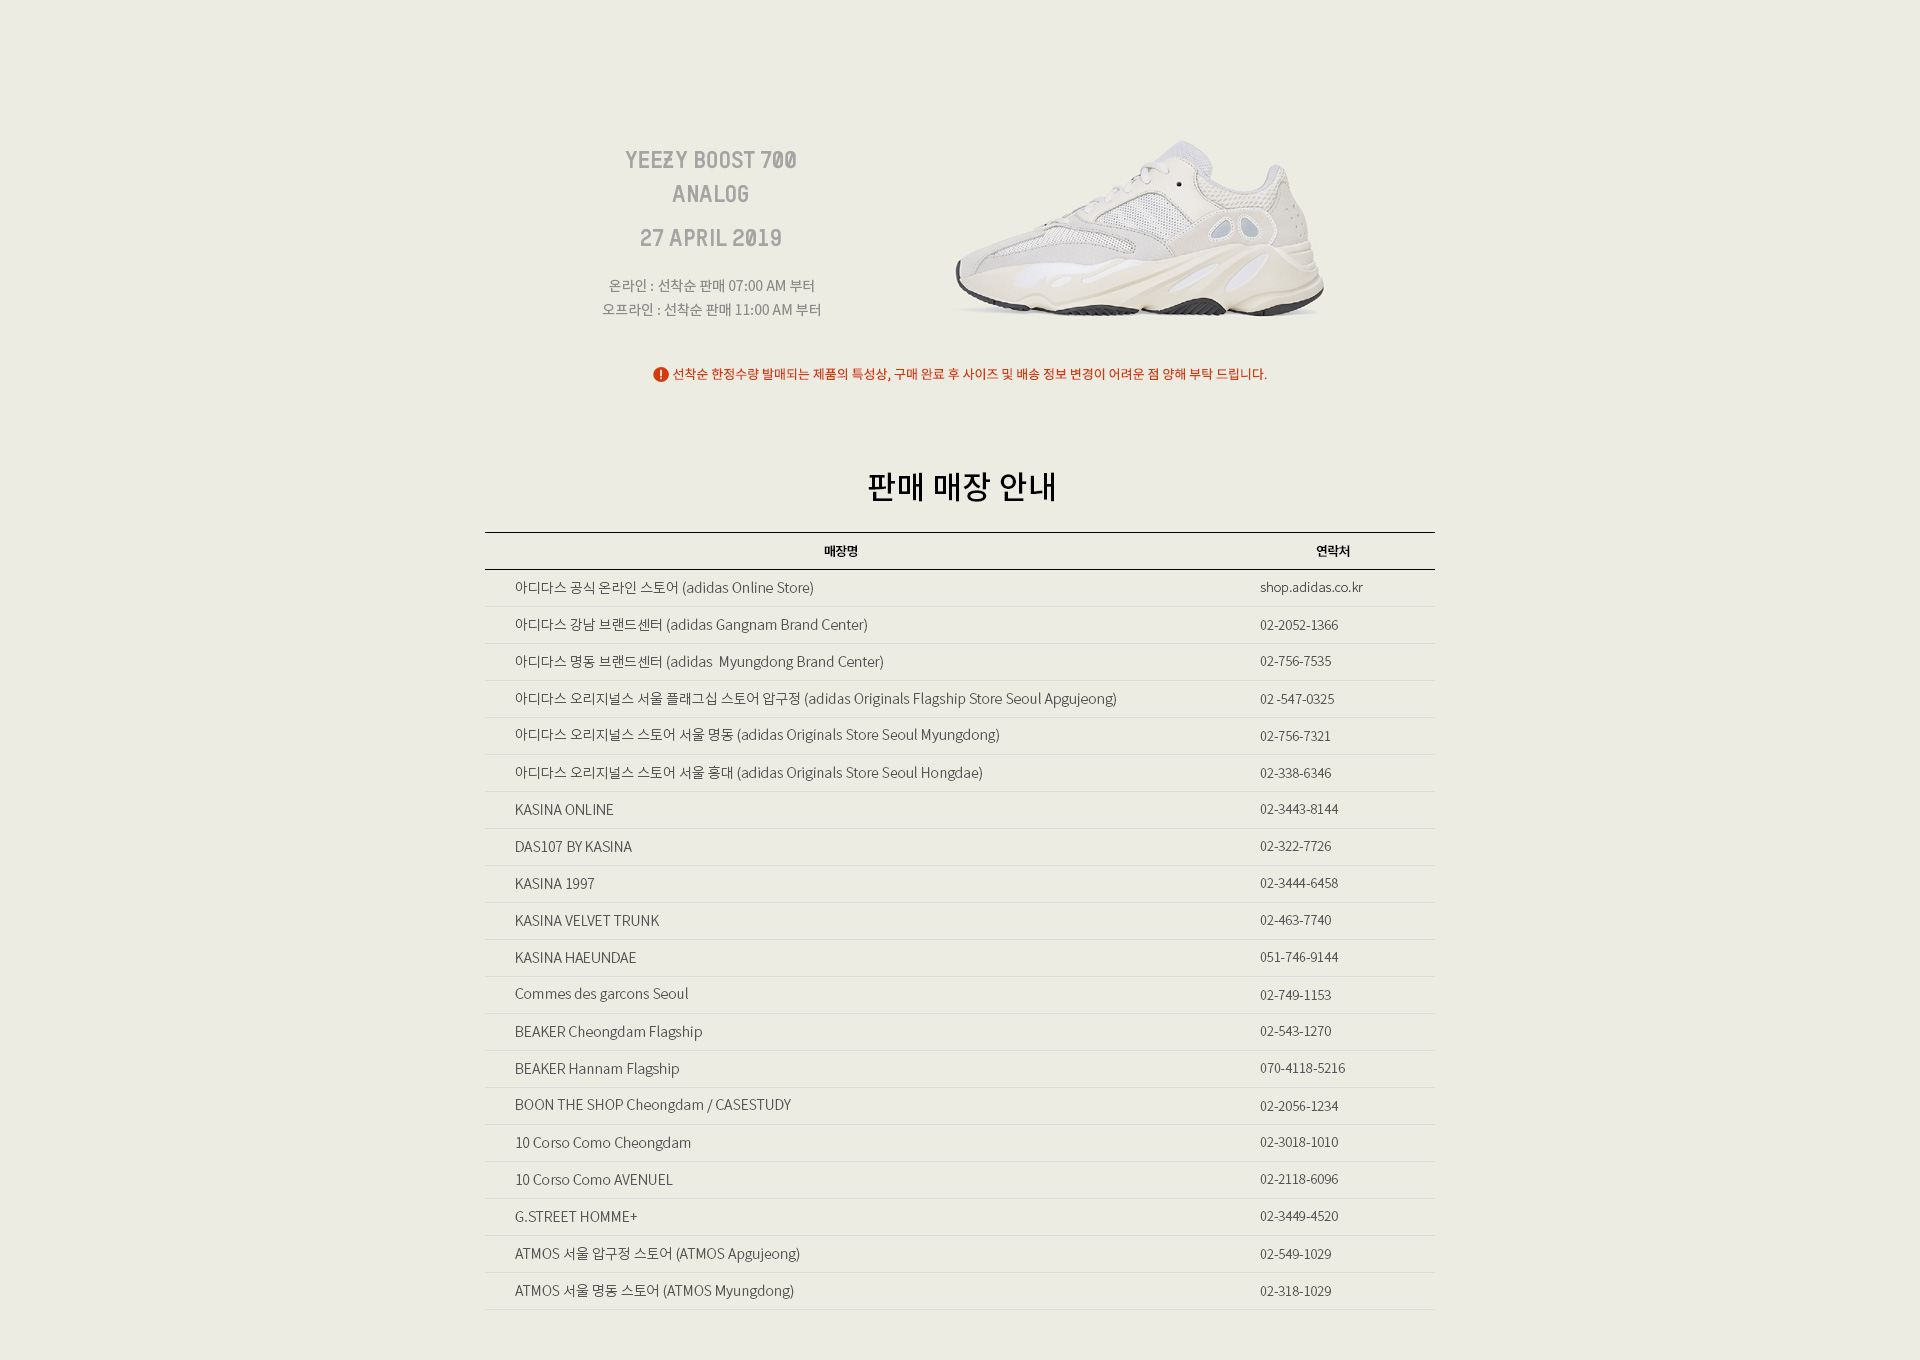
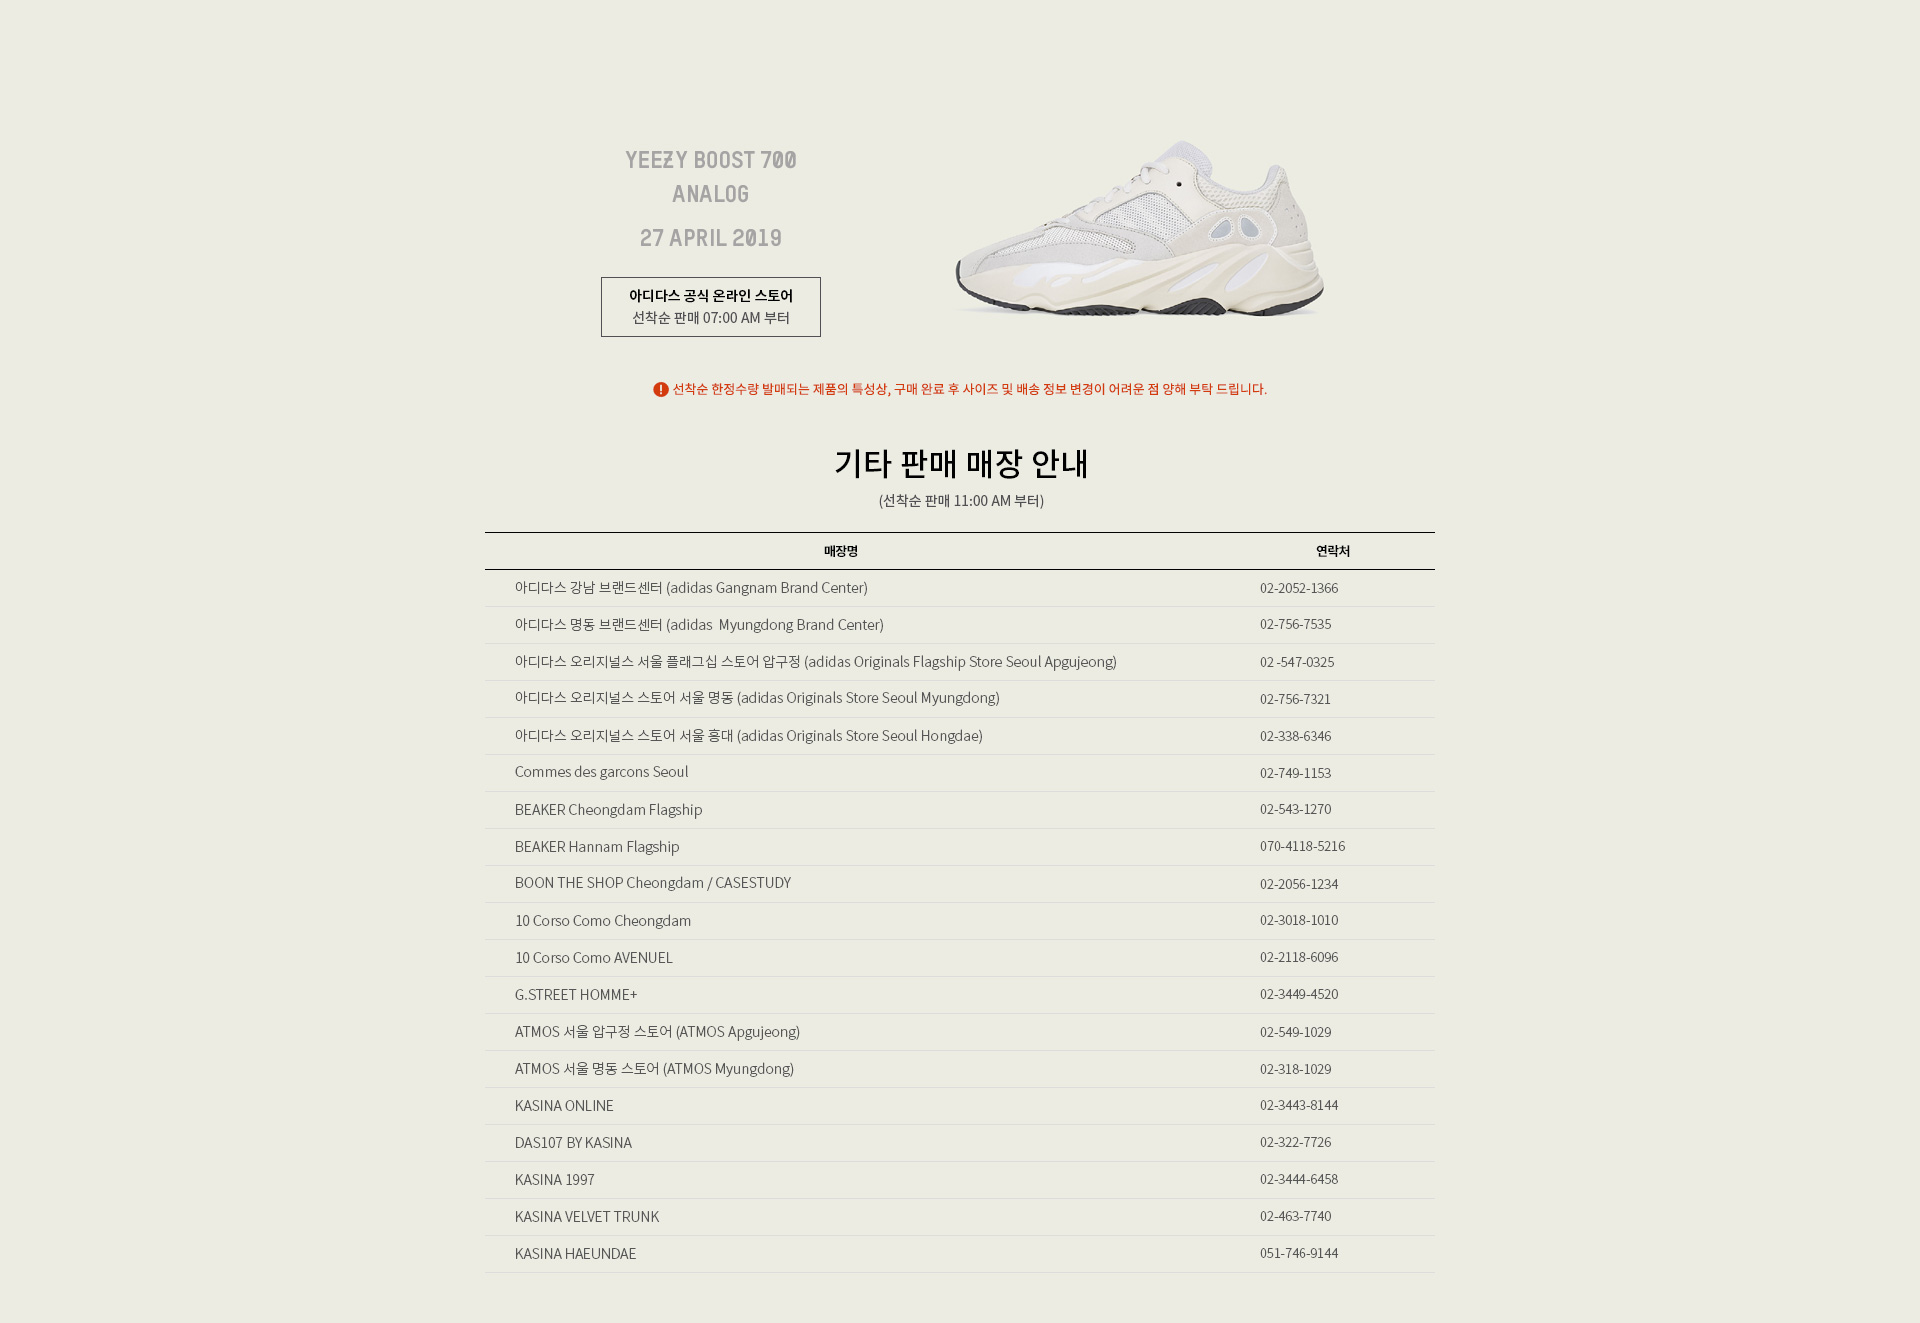
adi_cp_yeezy info 23일자 수정

Changed region(s): [[0.25, 0.3409, 0.5938, 0.9607], [0.3125, 0.093, 0.6875, 0.3099], [0.6562, 0.4029, 0.7188, 0.9607]]

diff --git a/front/html/adidas/2019/event/yeezy_information/build/index.html b/front/html/adidas/2019/event/yeezy_information/build/index.html
@@ -1019,7 +1019,7 @@
 		<!-- header HTML -->
 
 		<div id="container_r" class="campaign-content">
-<style type="text/css">.pseudo-element{content:'';display:block}html.no_scroll{width:100%;height:100%;position:relative;overflow:hidden}#yeezy_no_raffle{width:100%;position:relative;overflow:hidden;background:#fff;min-width:1024px}#yeezy_no_raffle .visual{position:relative;height:1360px}#yeezy_no_raffle .visual .bg{position:absolute;top:0;left:50%;margin-left:-960px}#yeezy_no_raffle .visual .bg img{display:block}#yeezy_no_raffle .top_wrap{display:none;background:#eeeeee;text-align:center;padding-top:70px;position:relative;height:400px}#yeezy_no_raffle .top_wrap h3{font:700 47px 'NotoSansKR';color:#000;text-align:center}#yeezy_no_raffle .top_wrap h3::after{content:'';width:45px;height:1px;background:#000;margin:20px 0;display:block;position:relative;left:50%;margin-left:-20px}#yeezy_no_raffle .top_wrap p.desc1{font:400 18px/26px 'NotoSansKR';color:#000;margin-bottom:30px;text-align:center}#yeezy_no_raffle .top_wrap p.desc1 span{font:18px/26px 'adinenuPro-regular';text-align:center}#yeezy_no_raffle .top_wrap p.desc2{font:500 20px/28px 'NotoSansKR';color:#000;margin-bottom:30px;text-align:center}#yeezy_no_raffle .top_wrap a{width:455px;height:60px;padding-top:10px;position:absolute;bottom:70px;left:50%;margin-left:-225px}#yeezy_no_raffle .top_wrap a span{font:400 18px/50px 'NotoSansKR'}#yeezy_no_raffle .olapic-wrapper{position:relative;left:50%;margin-left:-475px;width:951px;margin-top:60px}#yeezy_no_raffle .olapic-wrapper p.desc{text-align:center;font:400 14px/20px 'NotoSansKR';color:#000;margin-top:15px}#yeezy_no_raffle .banner_wrap{width:951px;position:relative;left:50%;margin-left:-475px;margin-top:70px;margin-bottom:100px;height:380px}#yeezy_no_raffle .banner_wrap>div{transition:box-shadow 0.3s ease-out;-webkit-transition:box-shadow 0.3s ease-out}#yeezy_no_raffle .banner_wrap>div:hover{box-shadow:0 0 20px rgba(0,0,0,0.5)}#yeezy_no_raffle .banner_wrap .banner_left{float:left}#yeezy_no_raffle .banner_wrap .banner_right{float:right}
+<style type="text/css">.pseudo-element{content:'';display:block}html.no_scroll{width:100%;height:100%;position:relative;overflow:hidden}#yeezy_no_raffle{width:100%;position:relative;overflow:hidden;background:#fff;min-width:1024px}#yeezy_no_raffle .visual{position:relative;height:1323px}#yeezy_no_raffle .visual .bg{position:absolute;top:0;left:50%;margin-left:-960px}#yeezy_no_raffle .visual .bg img{display:block}#yeezy_no_raffle .top_wrap{display:none;background:#eeeeee;text-align:center;padding-top:70px;position:relative;height:400px}#yeezy_no_raffle .top_wrap h3{font:700 47px 'NotoSansKR';color:#000;text-align:center}#yeezy_no_raffle .top_wrap h3::after{content:'';width:45px;height:1px;background:#000;margin:20px 0;display:block;position:relative;left:50%;margin-left:-20px}#yeezy_no_raffle .top_wrap p.desc1{font:400 18px/26px 'NotoSansKR';color:#000;margin-bottom:30px;text-align:center}#yeezy_no_raffle .top_wrap p.desc1 span{font:18px/26px 'adinenuPro-regular';text-align:center}#yeezy_no_raffle .top_wrap p.desc2{font:500 20px/28px 'NotoSansKR';color:#000;margin-bottom:30px;text-align:center}#yeezy_no_raffle .top_wrap a{width:455px;height:60px;padding-top:10px;position:absolute;bottom:70px;left:50%;margin-left:-225px}#yeezy_no_raffle .top_wrap a span{font:400 18px/50px 'NotoSansKR'}#yeezy_no_raffle .olapic-wrapper{position:relative;left:50%;margin-left:-475px;width:951px;margin-top:60px}#yeezy_no_raffle .olapic-wrapper p.desc{text-align:center;font:400 14px/20px 'NotoSansKR';color:#000;margin-top:15px}#yeezy_no_raffle .banner_wrap{width:951px;position:relative;left:50%;margin-left:-475px;margin-top:70px;margin-bottom:100px;height:380px}#yeezy_no_raffle .banner_wrap>div{transition:box-shadow 0.3s ease-out;-webkit-transition:box-shadow 0.3s ease-out}#yeezy_no_raffle .banner_wrap>div:hover{box-shadow:0 0 20px rgba(0,0,0,0.5)}#yeezy_no_raffle .banner_wrap .banner_left{float:left}#yeezy_no_raffle .banner_wrap .banner_right{float:right}
 </style>
 			<link type="text/css" rel="stylesheet" href="http://image.adidas.co.kr//css/adidas/event/campaign.css" />
 			<script type="text/javascript" src="http://image.adidas.co.kr//js/adidas/event/commonCampaign.js"></script>

diff --git a/front/html/adidas/html/pn/YEEZY_INFORMATION.html b/front/html/adidas/html/pn/YEEZY_INFORMATION.html
@@ -1,5 +1,5 @@
 <div id="container_r" class="campaign-content">
-	<style type="text/css">.pseudo-element{content:'';display:block}html.no_scroll{width:100%;height:100%;position:relative;overflow:hidden}#yeezy_no_raffle{width:100%;position:relative;overflow:hidden;background:#fff;min-width:1024px}#yeezy_no_raffle .visual{position:relative;height:1360px}#yeezy_no_raffle .visual .bg{position:absolute;top:0;left:50%;margin-left:-960px}#yeezy_no_raffle .visual .bg img{display:block}#yeezy_no_raffle .top_wrap{display:none;background:#eeeeee;text-align:center;padding-top:70px;position:relative;height:400px}#yeezy_no_raffle .top_wrap h3{font:700 47px 'NotoSansKR';color:#000;text-align:center}#yeezy_no_raffle .top_wrap h3::after{content:'';width:45px;height:1px;background:#000;margin:20px 0;display:block;position:relative;left:50%;margin-left:-20px}#yeezy_no_raffle .top_wrap p.desc1{font:400 18px/26px 'NotoSansKR';color:#000;margin-bottom:30px;text-align:center}#yeezy_no_raffle .top_wrap p.desc1 span{font:18px/26px 'adinenuPro-regular';text-align:center}#yeezy_no_raffle .top_wrap p.desc2{font:500 20px/28px 'NotoSansKR';color:#000;margin-bottom:30px;text-align:center}#yeezy_no_raffle .top_wrap a{width:455px;height:60px;padding-top:10px;position:absolute;bottom:70px;left:50%;margin-left:-225px}#yeezy_no_raffle .top_wrap a span{font:400 18px/50px 'NotoSansKR'}#yeezy_no_raffle .olapic-wrapper{position:relative;left:50%;margin-left:-475px;width:951px;margin-top:60px}#yeezy_no_raffle .olapic-wrapper p.desc{text-align:center;font:400 14px/20px 'NotoSansKR';color:#000;margin-top:15px}#yeezy_no_raffle .banner_wrap{width:951px;position:relative;left:50%;margin-left:-475px;margin-top:70px;margin-bottom:100px;height:380px}#yeezy_no_raffle .banner_wrap>div{transition:box-shadow 0.3s ease-out;-webkit-transition:box-shadow 0.3s ease-out}#yeezy_no_raffle .banner_wrap>div:hover{box-shadow:0 0 20px rgba(0,0,0,0.5)}#yeezy_no_raffle .banner_wrap .banner_left{float:left}#yeezy_no_raffle .banner_wrap .banner_right{float:right}
+	<style type="text/css">.pseudo-element{content:'';display:block}html.no_scroll{width:100%;height:100%;position:relative;overflow:hidden}#yeezy_no_raffle{width:100%;position:relative;overflow:hidden;background:#fff;min-width:1024px}#yeezy_no_raffle .visual{position:relative;height:1323px}#yeezy_no_raffle .visual .bg{position:absolute;top:0;left:50%;margin-left:-960px}#yeezy_no_raffle .visual .bg img{display:block}#yeezy_no_raffle .top_wrap{display:none;background:#eeeeee;text-align:center;padding-top:70px;position:relative;height:400px}#yeezy_no_raffle .top_wrap h3{font:700 47px 'NotoSansKR';color:#000;text-align:center}#yeezy_no_raffle .top_wrap h3::after{content:'';width:45px;height:1px;background:#000;margin:20px 0;display:block;position:relative;left:50%;margin-left:-20px}#yeezy_no_raffle .top_wrap p.desc1{font:400 18px/26px 'NotoSansKR';color:#000;margin-bottom:30px;text-align:center}#yeezy_no_raffle .top_wrap p.desc1 span{font:18px/26px 'adinenuPro-regular';text-align:center}#yeezy_no_raffle .top_wrap p.desc2{font:500 20px/28px 'NotoSansKR';color:#000;margin-bottom:30px;text-align:center}#yeezy_no_raffle .top_wrap a{width:455px;height:60px;padding-top:10px;position:absolute;bottom:70px;left:50%;margin-left:-225px}#yeezy_no_raffle .top_wrap a span{font:400 18px/50px 'NotoSansKR'}#yeezy_no_raffle .olapic-wrapper{position:relative;left:50%;margin-left:-475px;width:951px;margin-top:60px}#yeezy_no_raffle .olapic-wrapper p.desc{text-align:center;font:400 14px/20px 'NotoSansKR';color:#000;margin-top:15px}#yeezy_no_raffle .banner_wrap{width:951px;position:relative;left:50%;margin-left:-475px;margin-top:70px;margin-bottom:100px;height:380px}#yeezy_no_raffle .banner_wrap>div{transition:box-shadow 0.3s ease-out;-webkit-transition:box-shadow 0.3s ease-out}#yeezy_no_raffle .banner_wrap>div:hover{box-shadow:0 0 20px rgba(0,0,0,0.5)}#yeezy_no_raffle .banner_wrap .banner_left{float:left}#yeezy_no_raffle .banner_wrap .banner_right{float:right}
 	</style>
 		<link type="text/css" rel="stylesheet" href="http://image.adidas.co.kr//css/adidas/event/campaign.css" />
 		<script type="text/javascript" src="http://image.adidas.co.kr//js/adidas/event/commonCampaign.js"></script>

diff --git a/front/html/adidas/2019/event/yeezy_information/index.scss b/front/html/adidas/2019/event/yeezy_information/index.scss
@@ -16,7 +16,7 @@ html.no_scroll {
   min-width: 1024px;
   .visual {
     position: relative;
-    height: 1360px;
+    height: 1323px;
     /*상단 높이*/
     .bg {
       position: absolute;
